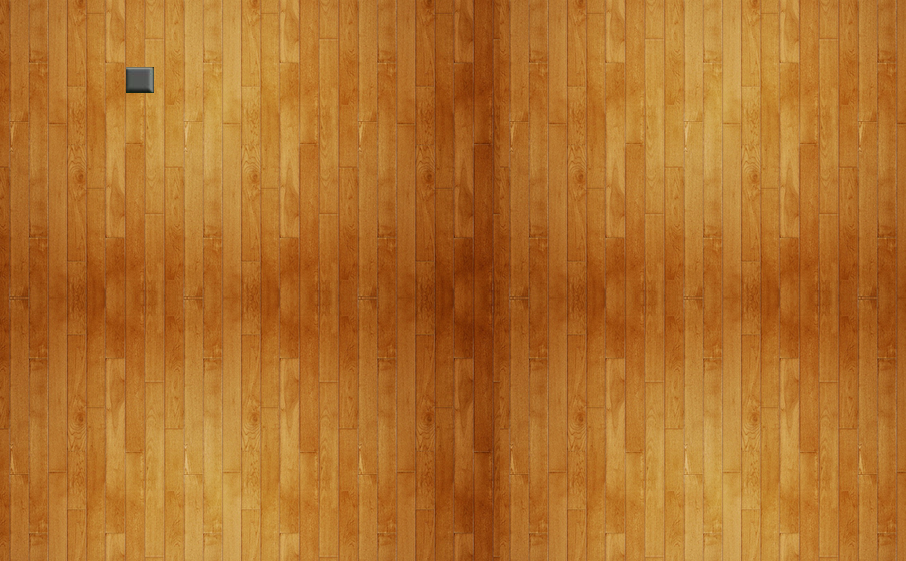
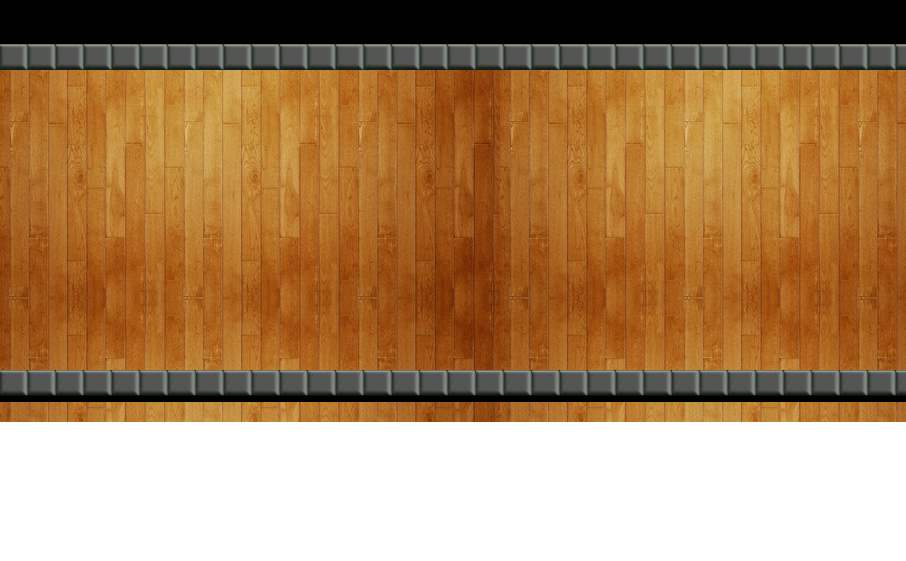
adding colission top-bottom

diff --git a/game/classes/app/MoveSnake.js b/game/classes/app/MoveSnake.js
@@ -18,11 +18,11 @@ Snake.MoveSnake = function(config){
     this.RSS = 25; //resize snake sprite    
     
     this.snakeObj = [];
-    this.snakeObj[0] = {x : 100, y : 20};
-    this.snakeObj[1] = {x : 75, y : 20};
-    this.snakeObj[2] = {x : 50, y : 20};
-    this.snakeObj[3] = {x : 25, y : 20};
-    this.snakeObj[4] = {x : 0, y : 20};
+    this.snakeObj[0] = {x : 100, y : 70};
+    this.snakeObj[1] = {x : 75, y : 70};
+    this.snakeObj[2] = {x : 50, y : 70};
+    this.snakeObj[3] = {x : 25, y : 70};
+    this.snakeObj[4] = {x : 0, y : 70};
 
     this.speedLevel = 300;
     this.collision = false;
@@ -135,13 +135,12 @@ Snake.MoveSnake = function(config){
     }
     
     this.checkCollision = function(){
-        for(var c = 0; c < me.snakeObj.length; c++){
-            for(var h = c+1; h < me.snakeObj.length; h++){
-                if(me.snakeObj[c].x == me.snakeObj[h].x && me.snakeObj[c].y == me.snakeObj[h].y){
-                    me.collision = true;
-                    c = h = me.snakeObj.length;
-                    console.info("collision");
-                }
+        for(var h = 1; h < me.snakeObj.length; h++){
+            if(me.snakeObj[0].x == me.snakeObj[h].x && 
+                me.snakeObj[0].y == me.snakeObj[h].y || me.snakeObj[0].y < 70 || me.snakeObj[0].y > 350){
+                me.collision = true;
+                c = h = me.snakeObj.length;
+                console.info("collision");
             }
         }
     }
